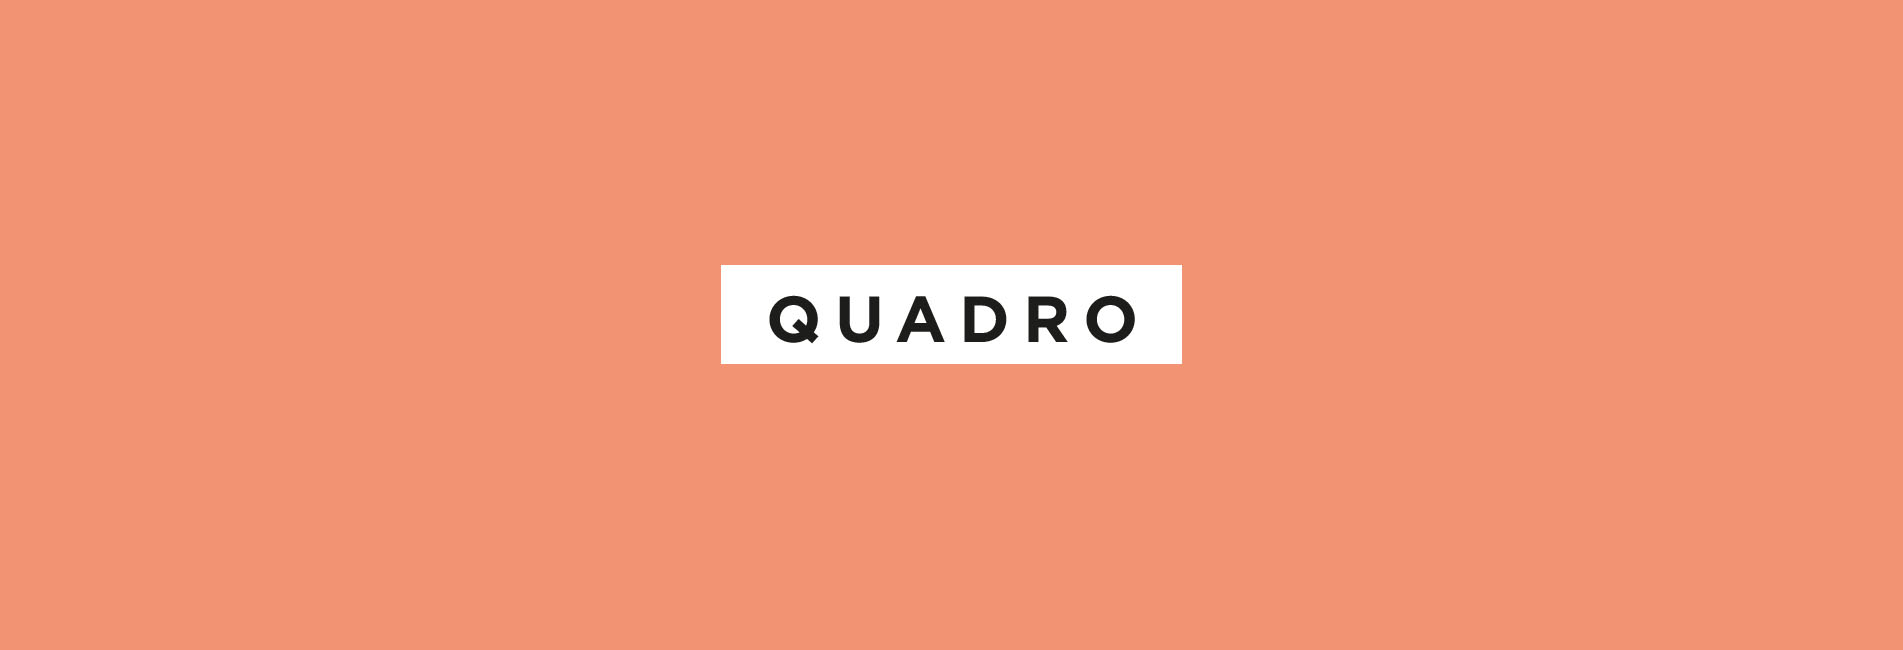
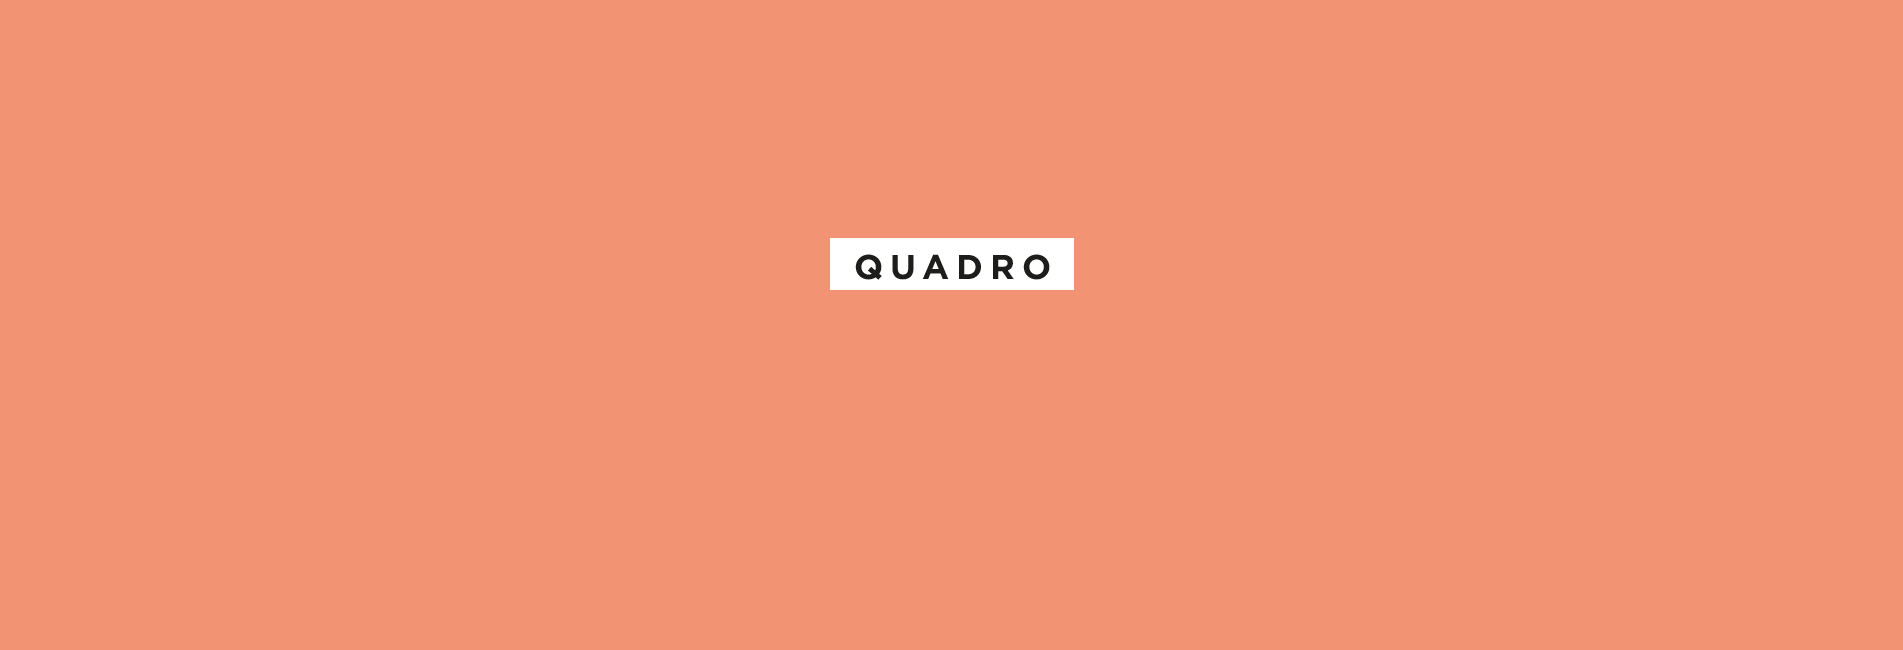
5

Changed region(s): [[0.372, 0.3692, 0.6201, 0.5846]]

diff --git a/quadro.html b/quadro.html
@@ -40,7 +40,7 @@
 
 	<!-- Main -->
 	<article id="main">
-		<header style="background: #2E3842 url('images/headerbaco.jpg') no-repeat; background-position: center top;">
+		<header style="background: #2E3842 url('images/headerquadroscritta.jpg') no-repeat; background-position: center top;">
 			<h2>Quadro</h2>
 			<p>sport, relax, studio</p>
 		</header>
